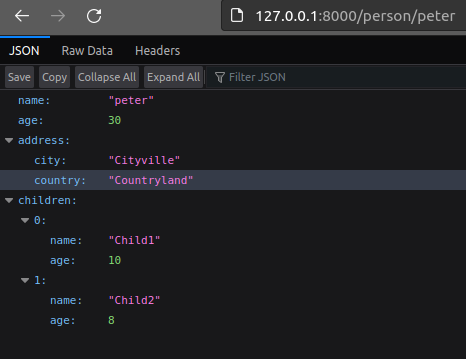
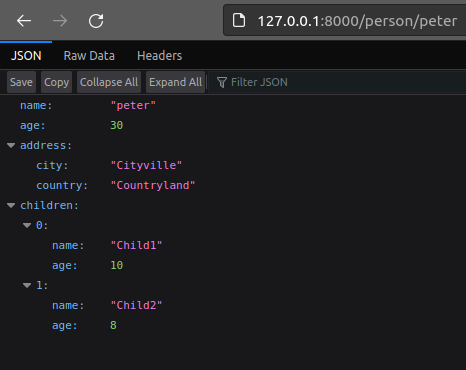
Max nested depth.

diff --git a/docs/examples/data_transfer_objects/factory/tutorial/max_nested_depth.py b/docs/examples/data_transfer_objects/factory/tutorial/max_nested_depth.py
@@ -1,0 +1,50 @@
+from __future__ import annotations
+
+from dataclasses import dataclass
+from typing import List
+
+from litestar import Litestar, get
+from litestar.dto.factory import DTOConfig
+from litestar.dto.factory.stdlib.dataclass import DataclassDTO
+
+
+@dataclass
+class Address:
+    street: str
+    city: str
+    country: str
+
+
+@dataclass
+class Person:
+    name: str
+    age: int
+    email: str
+    address: Address
+    children: List[Person]
+
+
+class ReadDTO(DataclassDTO[Person]):
+    config = DTOConfig(
+        exclude={"email", "address.street", "children.0.email", "children.0.address"},
+        max_nested_depth=2,
+    )
+
+
+@get("/person/{name:str}", return_dto=ReadDTO)
+def get_person(name: str) -> Person:
+    # Your logic to retrieve the person goes here
+    # For demonstration purposes, a placeholder Person instance is returned
+    address = Address(street="123 Main St", city="Cityville", country="Countryland")
+    child1 = Person(name="Child1", age=10, email="child1@example.com", address=address, children=[])
+    child2 = Person(name="Child2", age=8, email="child2@example.com", address=address, children=[])
+    return Person(
+        name=name,
+        age=30,
+        email=f"email_of_{name}@example.com",
+        address=address,
+        children=[child1, child2],
+    )
+
+
+app = Litestar(route_handlers=[get_person])

diff --git a/docs/examples/tests/data_transfer_objects/factory/test_tutorial.py b/docs/examples/tests/data_transfer_objects/factory/test_tutorial.py
@@ -42,3 +42,17 @@ def test_nested_collection_exclude():
         "address": {"city": "Cityville", "country": "Countryland"},
         "children": [{"name": "Child1", "age": 10}, {"name": "Child2", "age": 8}],
     }
+
+
+def test_max_nested_depth():
+    from docs.examples.data_transfer_objects.factory.tutorial.max_nested_depth import app
+
+    with TestClient(app=app) as client:
+        response = client.get("/person/peter")
+    assert response.status_code == 200
+    assert response.json() == {
+        "name": "peter",
+        "age": 30,
+        "address": {"city": "Cityville", "country": "Countryland"},
+        "children": [{"name": "Child1", "age": 10, "children": []}, {"name": "Child2", "age": 8, "children": []}],
+    }

diff --git a/docs/tutorials/dto-tutorial/04-max-nested-depth.rst b/docs/tutorials/dto-tutorial/04-max-nested-depth.rst
@@ -1,0 +1,30 @@
+Max nested depth
+----------------
+
+As we saw in the previous section, even though we didn't explicitly exclude the ``children`` from the nested
+``Person.children`` representations, they were not included in the response.
+
+Here's a reminder of the output:
+
+.. image:: images/nested_collection_exclude.png
+
+Given that we didn't explicitly exclude it from the response, each of the ``Person`` objects in the ``children``
+collection should have an empty ``children`` collection.
+
+The reason they do not is due to :attr:`max_nested_depth <litestar.dto.factory.DTOConfig.max_nested_depth>` and its
+default value of ``1``. The ``max_nested_depth`` attribute is used to limit the depth of nested objects that are
+included in the response. In this case, the ``Person`` object has a ``children`` collection, which is a collection of
+nested ``Person`` objects, so this represents a nested depth of 1. The ``children`` collections of the items in the
+``Person.children`` collection are at a 2nd level of nesting, and so are excluded due to the default value of
+``max_nested_depth``.
+
+Let's now modify our script to include the children of children in the response:
+
+.. literalinclude:: /examples/data_transfer_objects/factory/tutorial/max_nested_depth.py
+   :language: python
+   :linenos:
+   :emphasize-lines: 29
+
+We now see those empty collections in our output:
+
+.. image:: images/max_nested_depth.png

diff --git a/docs/tutorials/dto-tutorial/index.rst b/docs/tutorials/dto-tutorial/index.rst
@@ -52,3 +52,4 @@ is where data transfer objects come in.
     01-simple-dto-exclude
     02-nested-exclude
     03-nested-collection-exclude
+    04-max-nested-depth
